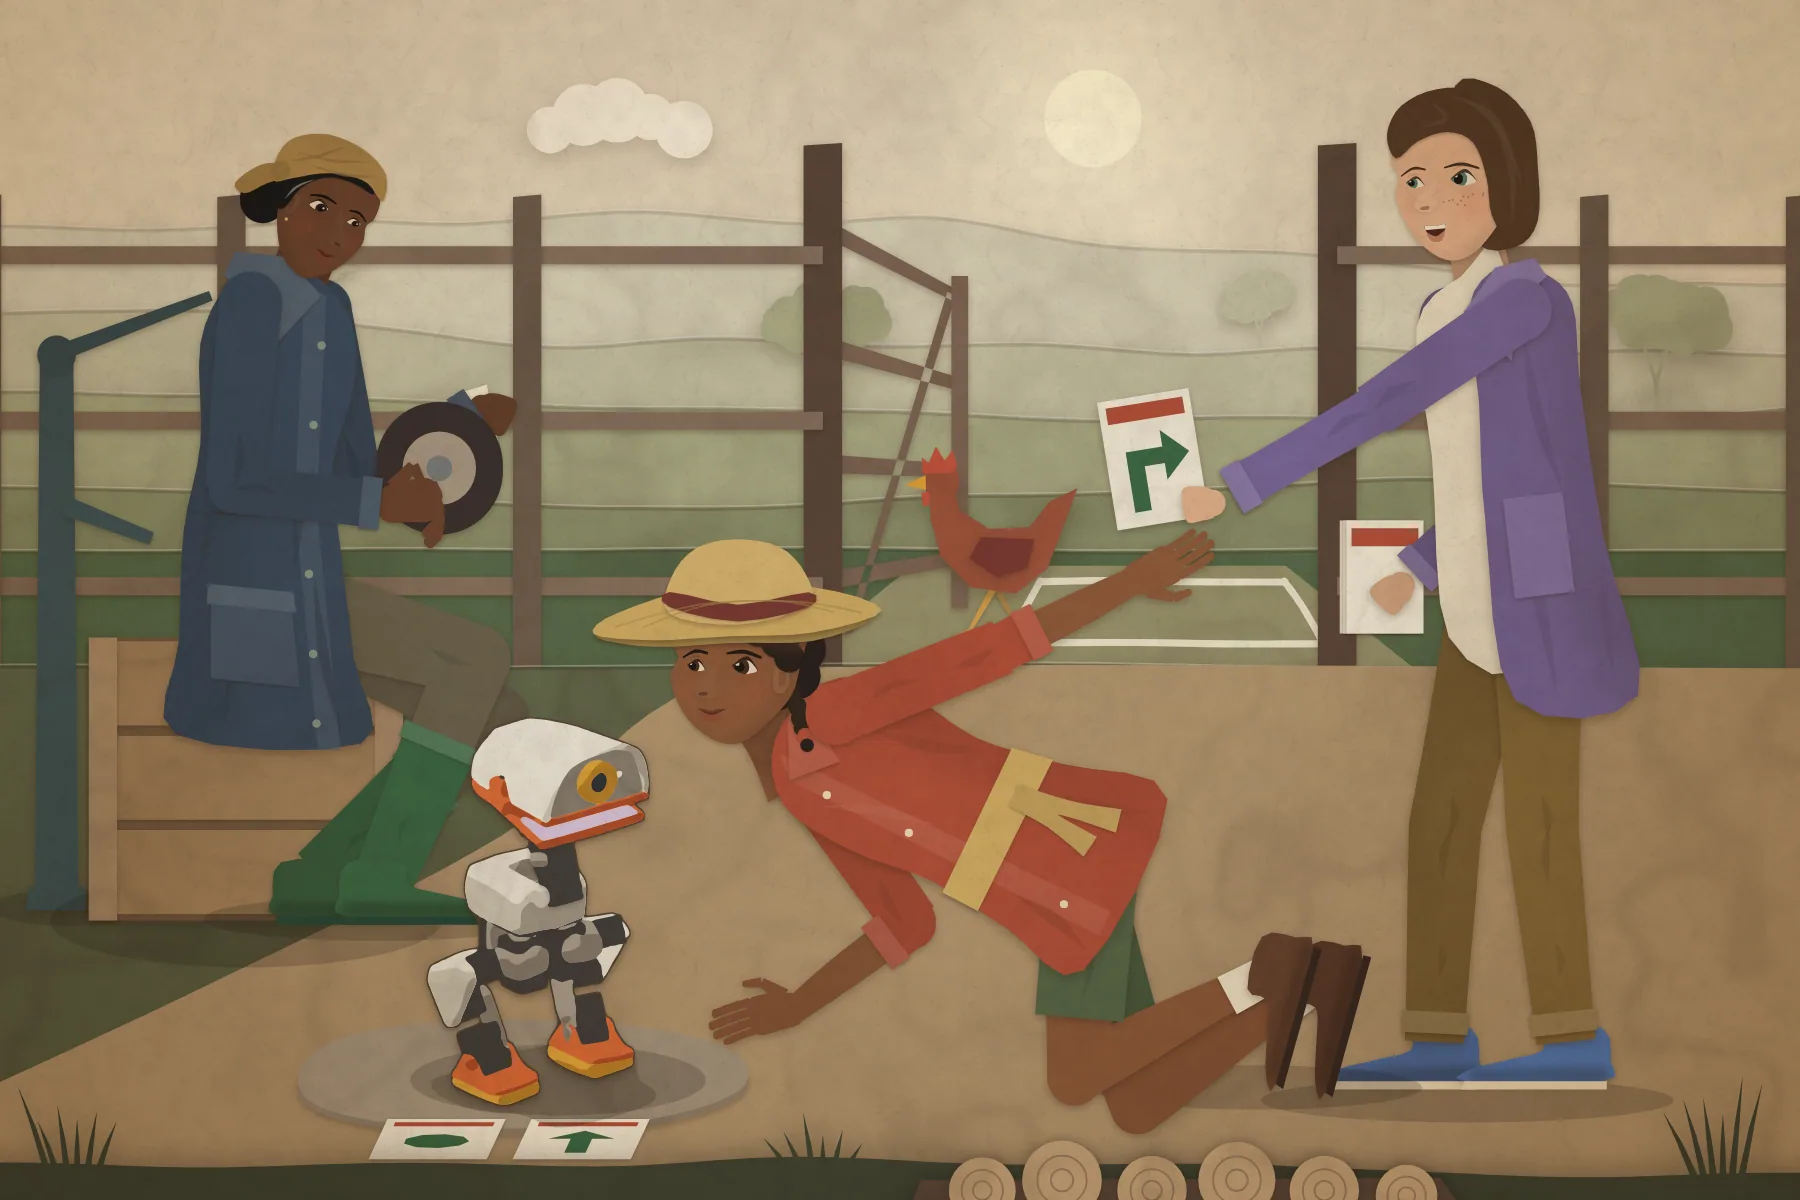
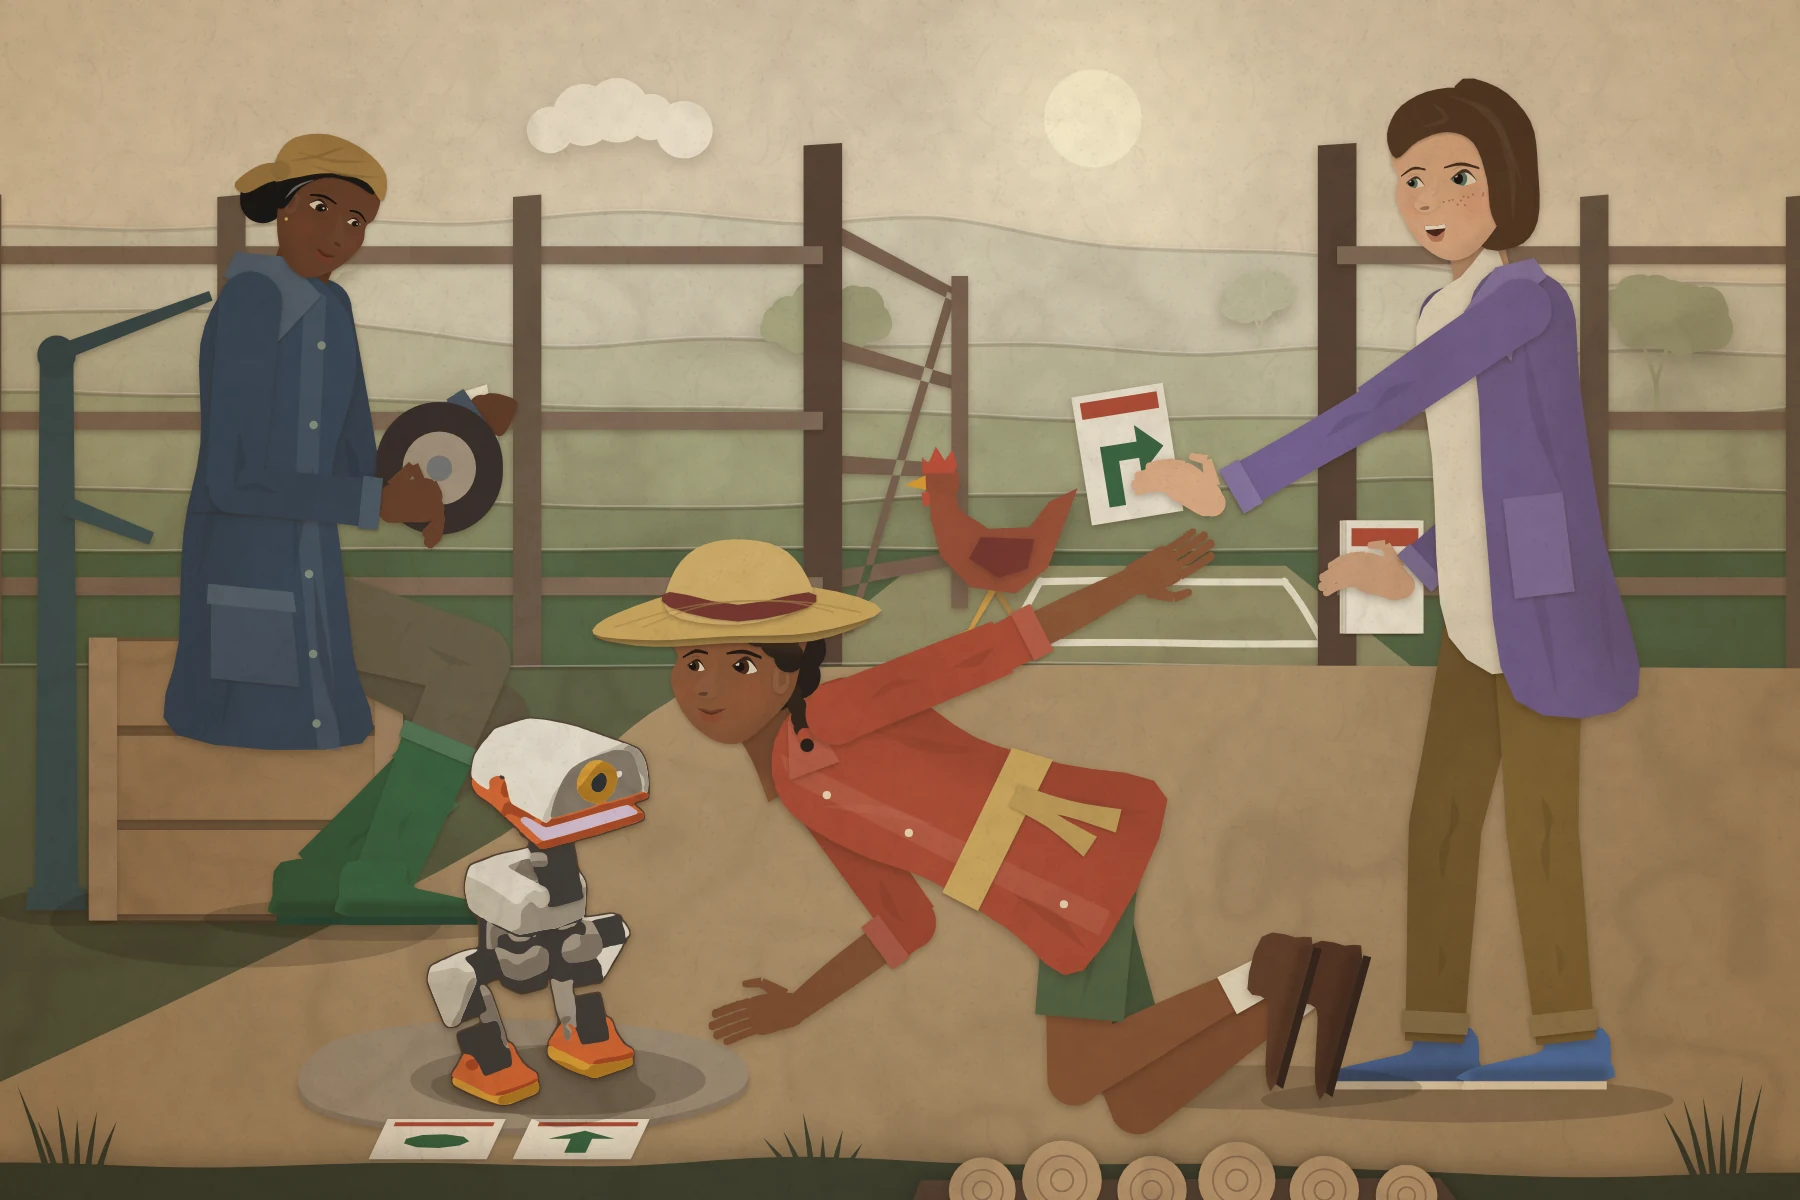
Story pictures: one green book on the log page, fingers on Tam
The log page showed Aunt Mo holding out a yellow book a few lines after
the text has her hold out the thin green one. She now has a mug, so the
green book is the only book in the picture. The alt text says so.

On the gate page Tam's hands were the only fingerless ones in the book.
They now have fingers and rest on the cards.

Claude-Session: https://claude.ai/code/session_01LkzLwaUvECji6SqBGcArrj

Changed region(s): [[0.5911, 0.3083, 0.6844, 0.4625], [0.7156, 0.4317, 0.7778, 0.5242]]

diff --git a/public/stories/the-duck-who-stayed/1/index.html b/public/stories/the-duck-who-stayed/1/index.html
@@ -91,7 +91,7 @@
 <p>Wren looked across at the shelf. Pip's small light blinked. Tick, went Pip, and then nothing else.</p>
 <p>She went to find a pencil.</p>
 <figure class="story-slot" id="picture-1-3" data-art-width="1800" data-art-height="1200">
-  <img class="story-slot-art" src="/stories/the-duck-who-stayed/art/ch1-log.webp" alt="Wren sits at the kitchen table, writing in an open thin green book with a yellow pencil. Aunt Mo sits across from her, holding a yellow book. One leg of Wren&#x27;s chair is wrapped in a tied bandage. Pip stands on a shelf by the back door, plugged in to charge." width="1800" height="1200" decoding="async" loading="lazy">
+  <img class="story-slot-art" src="/stories/the-duck-who-stayed/art/ch1-log.webp" alt="Wren sits at the kitchen table, writing in an open thin green book with a yellow pencil. Aunt Mo sits across from her with a mug. One leg of Wren&#x27;s chair is wrapped in a tied bandage. Pip stands on a shelf by the back door, plugged in to charge." width="1800" height="1200" decoding="async" loading="lazy">
 </figure>
 </div>
 
